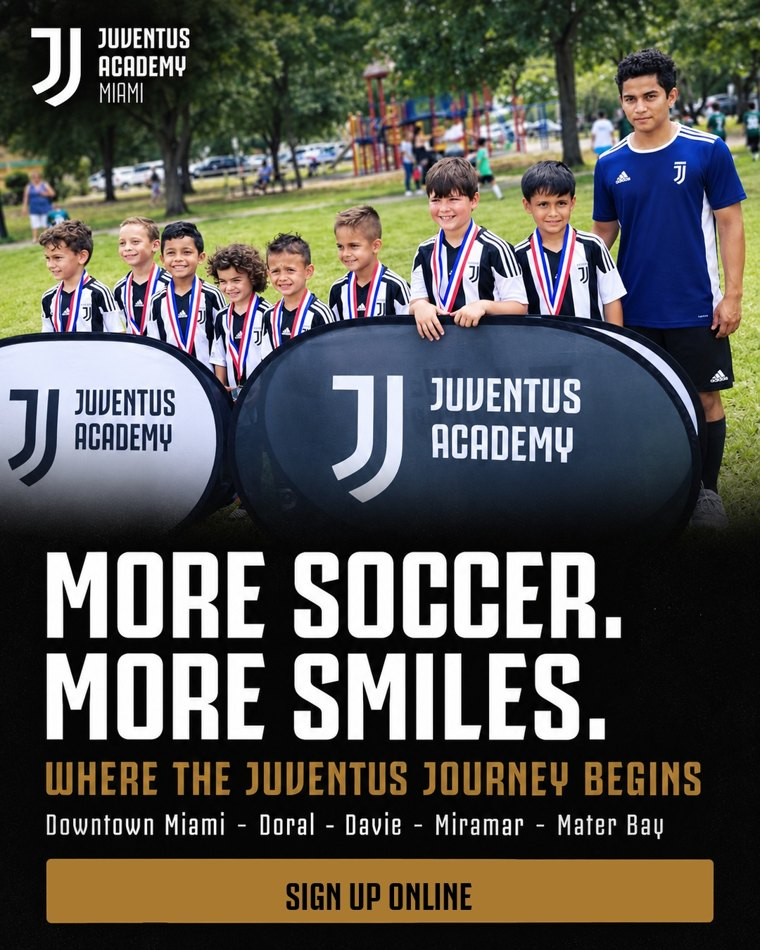
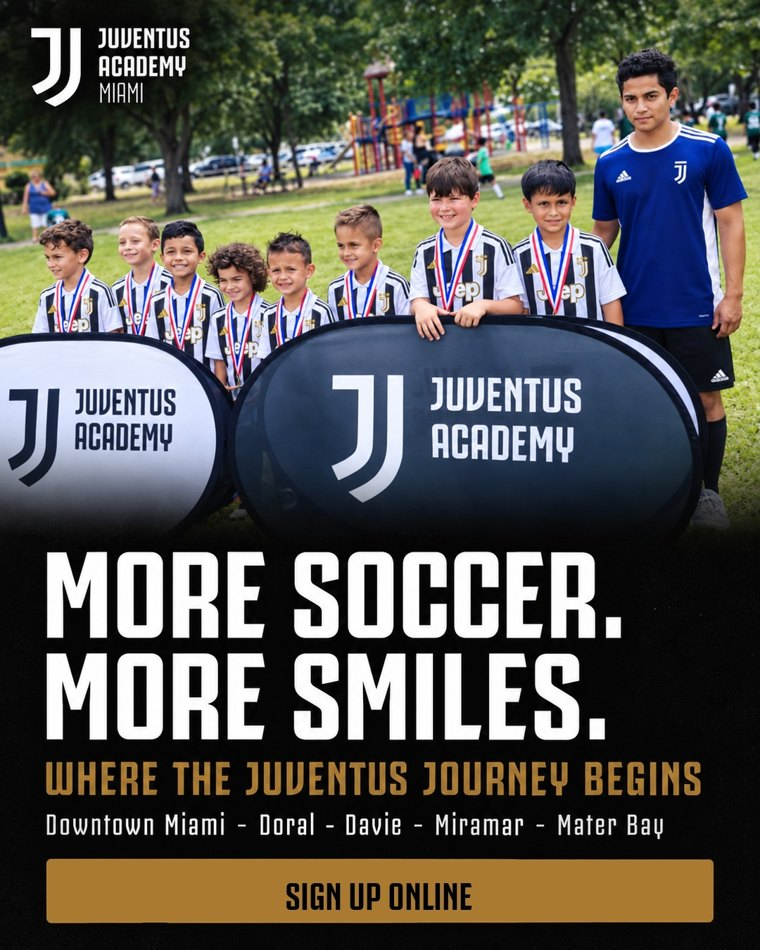
Anuncios con la camiseta 2026-27 (AD5, AD4, AD1)

diff --git a/index.html b/index.html
@@ -133,9 +133,9 @@ body.lb-abierto{overflow:hidden}</style></head><body><div class="wrap">
 </article><article class="ad pend" data-id="AD5">
   <header><span class="num">1</span><h3>AD5 · &quot;First month free&quot; (niño en acción, skyline)</h3><span class="estado" data-estado>Por aprobar</span></header>
   <div class="cuerpo">
-    <div class="media"><p class="donde">Pieza · 1080 × 1350</p><img class="zoom" src="assets/AD5.jpg?v=1" data-full="assets/AD5_1080.jpg?v=1" alt="AD5 · &quot;First month free&quot; (niño en acción, skyline)" loading="lazy" title="Clic para ampliar"><a class="dl" href="assets/AD5_1080.jpg?v=1" target="_blank" rel="noopener">Ver la pieza a tamaño real</a>
+    <div class="media"><p class="donde">Pieza · 1080 × 1350</p><img class="zoom" src="assets/AD5.jpg?v=2" data-full="assets/AD5_1080.jpg?v=2" alt="AD5 · &quot;First month free&quot; (niño en acción, skyline)" loading="lazy" title="Clic para ampliar"><a class="dl" href="assets/AD5_1080.jpg?v=2" target="_blank" rel="noopener">Ver la pieza a tamaño real</a>
       <p class="nota-pieza"><b>Dónde sale:</b> Solo en Miramar, Mater Bay y Downtown Miami (las sedes con mes gratis).</p>
-      <p class="nota-pieza">Es el AD5 de la campaña actual (USD 3,42 por conversación, 86 conversaciones al 27-10). Solo cambió el botón de la pieza: &quot;Message us on WhatsApp&quot; → &quot;Sign up online&quot;. Mantiene las 5 sedes y la aclaración del mes gratis.</p></div>
+      <p class="nota-pieza">Es el AD5 de la campaña actual (USD 3,42 por conversación, 86 conversaciones al 27-10). Cambios: el botón de la pieza pasó de &quot;Message us on WhatsApp&quot; a &quot;Sign up online&quot; y el niño viste ahora la camiseta 2026-27 (Jeep, escudo y adidas como la oficial). Mantiene las 5 sedes y la aclaración del mes gratis.</p></div>
     <div class="copy">
       <div class="lbl">Texto principal · inglés <span class="hint">· se puede editar</span></div>
       <div class="tp ed" contenteditable="true" spellcheck="true" data-campo="texto">Still figuring out if he loves the game? Let him try it with Juventus. ⚽<br><br>At Miramar, Mater Bay and Downtown Miami, your first month of Juventus Pre-Academy is free: boys and girls learn soccer the Juventus way, with certified coaches and a real team.<br><br>Pick your location, see the schedule and sign up online at the link 👇</div>
@@ -158,9 +158,9 @@ body.lb-abierto{overflow:hidden}</style></head><body><div class="wrap">
 </article><article class="ad pend" data-id="AD1">
   <header><span class="num">2</span><h3>AD1 · &quot;More soccer. More smiles.&quot; (5 sedes)</h3><span class="estado" data-estado>Por aprobar</span></header>
   <div class="cuerpo">
-    <div class="media"><p class="donde">Pieza · 1080 × 1350</p><img class="zoom" src="assets/AD1.jpg?v=1" data-full="assets/AD1_1080.jpg?v=1" alt="AD1 · &quot;More soccer. More smiles.&quot; (5 sedes)" loading="lazy" title="Clic para ampliar"><a class="dl" href="assets/AD1_1080.jpg?v=1" target="_blank" rel="noopener">Ver la pieza a tamaño real</a>
+    <div class="media"><p class="donde">Pieza · 1080 × 1350</p><img class="zoom" src="assets/AD1.jpg?v=2" data-full="assets/AD1_1080.jpg?v=2" alt="AD1 · &quot;More soccer. More smiles.&quot; (5 sedes)" loading="lazy" title="Clic para ampliar"><a class="dl" href="assets/AD1_1080.jpg?v=2" target="_blank" rel="noopener">Ver la pieza a tamaño real</a>
       <p class="nota-pieza"><b>Dónde sale:</b> En las 5 sedes (es la pieza para Doral y Davie, que no tienen mes gratis).</p>
-      <p class="nota-pieza">Es el AD1 de la campaña actual (USD 3,33 por conversación, 24 conversaciones). Solo cambió el botón: &quot;Message us on WhatsApp&quot; → &quot;Sign up online&quot;. Lista las 5 sedes y no menciona el mes gratis.</p></div>
+      <p class="nota-pieza">Es el AD1 de la campaña actual (USD 3,33 por conversación, 24 conversaciones). Cambios: el botón de la pieza pasó de &quot;Message us on WhatsApp&quot; a &quot;Sign up online&quot; y los niños visten ahora la camiseta 2026-27 (el coach conserva la suya). Lista las 5 sedes y no menciona el mes gratis.</p></div>
     <div class="copy">
       <div class="lbl">Texto principal · inglés <span class="hint">· se puede editar</span></div>
       <div class="tp ed" contenteditable="true" spellcheck="true" data-campo="texto">More soccer. More smiles. Where the Juventus journey begins. ⚪⚫<br><br>Juventus Pre-Academy is for boys and girls ages 3 to 16 in Downtown Miami, Doral, Davie, Miramar and Mater Bay: weekly training with certified coaches, the Juventus methodology and a team to belong to.<br><br>Choose your location and sign up online at the link 👇</div>
@@ -183,9 +183,9 @@ body.lb-abierto{overflow:hidden}</style></head><body><div class="wrap">
 </article><article class="ad pend" data-id="AD4">
   <header><span class="num">3</span><h3>AD4 · &quot;Your first month at Juventus is free&quot; (trofeo)</h3><span class="estado" data-estado>Por aprobar</span></header>
   <div class="cuerpo">
-    <div class="media"><p class="donde">Pieza · 1080 × 1350</p><img class="zoom" src="assets/AD4.jpg?v=1" data-full="assets/AD4_1080.jpg?v=1" alt="AD4 · &quot;Your first month at Juventus is free&quot; (trofeo)" loading="lazy" title="Clic para ampliar"><a class="dl" href="assets/AD4_1080.jpg?v=1" target="_blank" rel="noopener">Ver la pieza a tamaño real</a>
+    <div class="media"><p class="donde">Pieza · 1080 × 1350</p><img class="zoom" src="assets/AD4.jpg?v=2" data-full="assets/AD4_1080.jpg?v=2" alt="AD4 · &quot;Your first month at Juventus is free&quot; (trofeo)" loading="lazy" title="Clic para ampliar"><a class="dl" href="assets/AD4_1080.jpg?v=2" target="_blank" rel="noopener">Ver la pieza a tamaño real</a>
       <p class="nota-pieza"><b>Dónde sale:</b> Solo en Miramar, Mater Bay y Downtown Miami.</p>
-      <p class="nota-pieza">Es el AD4 de la campaña actual (77 conversaciones a USD 4,83). La pieza no cambia: su botón ya decía &quot;Claim your free month&quot;.</p></div>
+      <p class="nota-pieza">Es el AD4 de la campaña actual (77 conversaciones a USD 4,83). Cambio: los niños visten ahora la camiseta 2026-27 (antes, camisetas de temporadas anteriores con parche de bandera); el texto y el botón &quot;Claim your free month&quot; no cambian.</p></div>
     <div class="copy">
       <div class="lbl">Texto principal · inglés <span class="hint">· se puede editar</span></div>
       <div class="tp ed" contenteditable="true" spellcheck="true" data-campo="texto">Your first month at Juventus is free. 🏆<br><br>Try the full Juventus Pre-Academy program before you commit to anything: real training, certified coaches and teammates, at Miramar, Mater Bay and Downtown Miami.<br><br>Claim your free month and sign up online at the link 👇</div>
